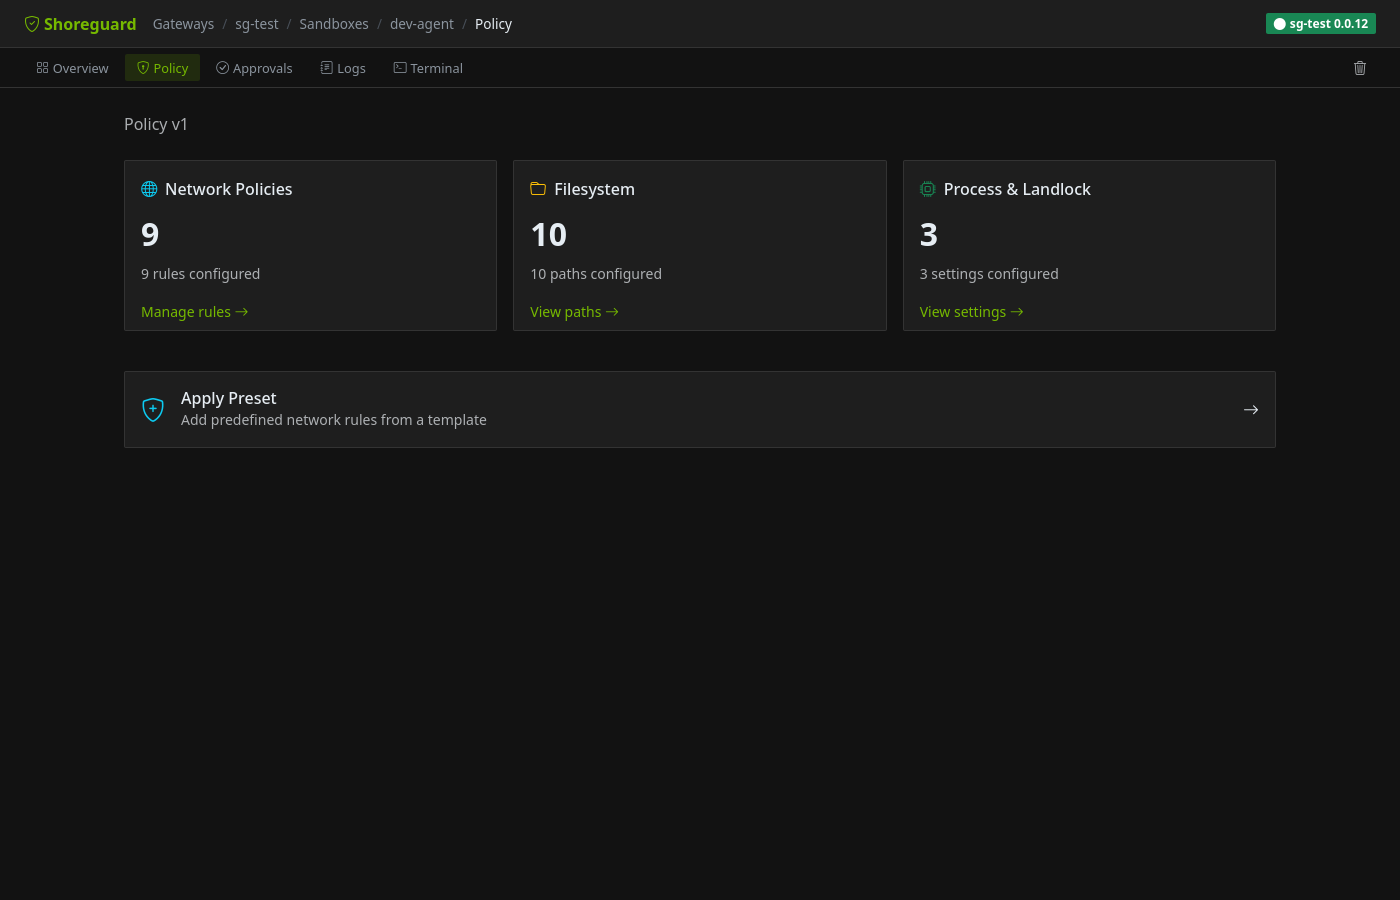
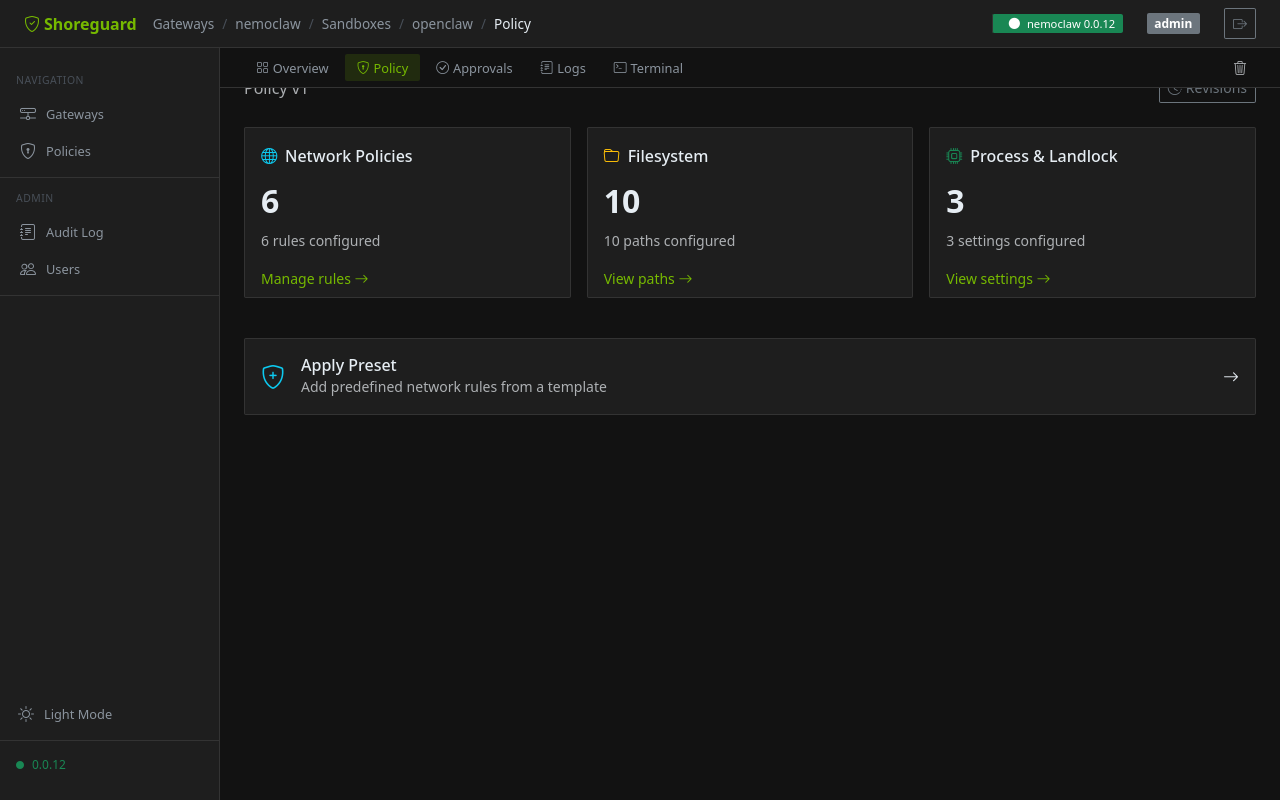
docs: update screenshots, fix stale active-gateway references, expand API reference
Refresh all 8 screenshots for v0.12.0 UI. Remove "active gateway" concept
from docs (removed in v0.10.0). Add gateway detail, audit log, and provider
sections with screenshots. Expand API reference from ~15 to ~45 endpoints.
Fix asyncpg → psycopg in all PostgreSQL examples. Update README roadmap.

diff --git a/docs/reference/api.md b/docs/reference/api.md
@@ -33,6 +33,15 @@ ShoreGuard supports two authentication methods:
 | `POST` | `/api/auth/service-principals` | Create a service principal |
 | `DELETE` | `/api/auth/service-principals` | Delete a service principal |
 
+## Health probes
+
+These endpoints are **unauthenticated** and designed for container orchestration.
+
+| Method | Path | Description |
+|--------|------|-------------|
+| `GET` | `/healthz` | Liveness probe — returns 200 if the process is running |
+| `GET` | `/readyz` | Readiness probe — checks database and service initialisation |
+
 ## Gateway management
 
 | Method | Path | Description |
@@ -40,21 +49,43 @@ ShoreGuard supports two authentication methods:
 | `GET` | `/api/gateway/list` | List all registered gateways |
 | `POST` | `/api/gateway/register` | Register a new gateway |
 | `DELETE` | `/api/gateway/{name}` | Remove a gateway |
-| `POST` | `/api/gateway/{name}/select` | Set the active gateway for the session |
+| `GET` | `/api/gateway/{name}/info` | Gateway details (status, endpoint, dates) |
+| `GET` | `/api/gateway/{name}/config` | Gateway configuration |
 | `POST` | `/api/gateway/{name}/test-connection` | Test connectivity to a gateway |
+| `POST` | `/api/gateway/{name}/start` | Start gateway (local mode only) |
+| `POST` | `/api/gateway/{name}/stop` | Stop gateway (local mode only) |
+| `POST` | `/api/gateway/{name}/restart` | Restart gateway (local mode only) |
+| `GET` | `/api/gateways/{gw}/health` | Gateway health status |
 
-## Sandboxes and policies
+## Sandboxes
 
-All sandbox endpoints are scoped to a gateway.
+All sandbox endpoints are scoped to a gateway via the `{gw}` path parameter.
 
 | Method | Path | Description |
 |--------|------|-------------|
 | `GET` | `/api/gateways/{gw}/sandboxes` | List sandboxes |
-| `POST` | `/api/gateways/{gw}/sandboxes` | Create a sandbox |
+| `POST` | `/api/gateways/{gw}/sandboxes` | Create a sandbox (returns 202 + operation ID) |
+| `GET` | `/api/gateways/{gw}/sandboxes/{name}` | Get sandbox details |
 | `DELETE` | `/api/gateways/{gw}/sandboxes/{name}` | Delete a sandbox |
 | `POST` | `/api/gateways/{gw}/sandboxes/{name}/exec` | Execute a command in a sandbox |
-| `GET` | `/api/gateways/{gw}/sandboxes/{name}/policy` | Get the sandbox policy |
-| `PUT` | `/api/gateways/{gw}/sandboxes/{name}/policy` | Update the sandbox policy |
+| `POST` | `/api/gateways/{gw}/sandboxes/{name}/ssh` | Create SSH session |
+| `DELETE` | `/api/gateways/{gw}/sandboxes/{name}/ssh` | Revoke SSH session |
+| `GET` | `/api/gateways/{gw}/sandboxes/{name}/logs` | Get sandbox logs |
+
+## Policies
+
+| Method | Path | Description |
+|--------|------|-------------|
+| `GET` | `/api/gateways/{gw}/sandboxes/{name}/policy` | Get the active sandbox policy |
+| `PUT` | `/api/gateways/{gw}/sandboxes/{name}/policy` | Update the full sandbox policy |
+| `GET` | `/api/gateways/{gw}/sandboxes/{name}/policy/revisions` | List policy revisions |
+| `GET` | `/api/gateways/{gw}/sandboxes/{name}/policy/diff` | Compare two revisions |
+| `POST` | `/api/gateways/{gw}/sandboxes/{name}/policy/network-rules` | Add a network rule |
+| `DELETE` | `/api/gateways/{gw}/sandboxes/{name}/policy/network-rules/{key}` | Delete a network rule |
+| `POST` | `/api/gateways/{gw}/sandboxes/{name}/policy/filesystem` | Add a filesystem path |
+| `DELETE` | `/api/gateways/{gw}/sandboxes/{name}/policy/filesystem` | Delete a filesystem path |
+| `PUT` | `/api/gateways/{gw}/sandboxes/{name}/policy/process` | Update process/Landlock settings |
+| `POST` | `/api/gateways/{gw}/sandboxes/{name}/policy/presets/{preset}` | Apply a preset |
 
 ## Approvals
 
@@ -63,11 +94,37 @@ All sandbox endpoints are scoped to a gateway.
 | `GET` | `/api/gateways/{gw}/approvals/pending` | List pending approval requests |
 | `POST` | `/api/gateways/{gw}/approvals/{chunk_id}/approve` | Approve a pending request |
 
+## Providers
+
+| Method | Path | Description |
+|--------|------|-------------|
+| `GET` | `/api/gateways/{gw}/providers` | List providers |
+| `POST` | `/api/gateways/{gw}/providers` | Create a provider |
+| `GET` | `/api/gateways/{gw}/providers/{name}` | Get provider details |
+| `PUT` | `/api/gateways/{gw}/providers/{name}` | Update a provider |
+| `DELETE` | `/api/gateways/{gw}/providers/{name}` | Delete a provider |
+| `GET` | `/api/gateways/{gw}/providers/types` | List known provider types |
+
+## Inference
+
+| Method | Path | Description |
+|--------|------|-------------|
+| `GET` | `/api/gateways/{gw}/inference` | Get cluster inference configuration |
+| `PUT` | `/api/gateways/{gw}/inference` | Set inference config (provider, model, timeout) |
+
 ## Policy presets
 
 | Method | Path | Description |
 |--------|------|-------------|
 | `GET` | `/api/policies/presets` | List available policy presets |
+| `GET` | `/api/policies/presets/{name}` | Get preset details |
+
+## Audit
+
+| Method | Path | Description |
+|--------|------|-------------|
+| `GET` | `/api/audit` | Query audit log (filter by actor, resource, action) |
+| `GET` | `/api/audit/export` | Export audit log as CSV or JSON |
 
 ## Operations
 

diff --git a/README.md b/README.md
@@ -66,11 +66,13 @@ Open [http://localhost:8888](http://localhost:8888) and complete the setup wizar
 
 ## Features
 
-- **[Gateway management](https://flohofstetter.github.io/shoreguard/guide/gateways/)** — register and monitor multiple remote OpenShell gateways
+- **[Gateway management](https://flohofstetter.github.io/shoreguard/guide/gateways/)** — register and monitor multiple remote OpenShell gateways with health probing
 - **[Sandbox wizard](https://flohofstetter.github.io/shoreguard/guide/sandboxes/)** — step-by-step creation with agent types, images, and presets
 - **[Visual policy editor](https://flohofstetter.github.io/shoreguard/guide/policies/)** — network rules, filesystem paths, process settings — no YAML
 - **[Approval flow](https://flohofstetter.github.io/shoreguard/guide/approvals/)** — review agent-requested endpoint access in real-time
-- **[RBAC](https://flohofstetter.github.io/shoreguard/admin/rbac/)** — Admin, Operator, Viewer roles with invite flow
+- **[RBAC](https://flohofstetter.github.io/shoreguard/admin/rbac/)** — Admin, Operator, Viewer roles with gateway-scoped overrides
+- **[Docker deployment](https://flohofstetter.github.io/shoreguard/admin/deployment/)** — Dockerfile + docker-compose with PostgreSQL and health probes
+- **[Audit log](https://flohofstetter.github.io/shoreguard/guide/monitoring/)** — persistent, filterable, exportable audit trail
 - **[Terraform provider](https://flohofstetter.github.io/shoreguard/reference/terraform/)** — declarative infrastructure-as-code
 
 ## Documentation
@@ -89,22 +91,21 @@ Full documentation is available at **[flohofstetter.github.io/shoreguard](https:
 **Completed:**
 
 - [x] Multi-gateway management with health monitoring
-- [x] RBAC — Admin, Operator, Viewer roles
+- [x] RBAC — Admin, Operator, Viewer roles with gateway-scoped overrides
 - [x] Sandbox wizard with community images and presets
-- [x] Visual policy editor with revision history
+- [x] Visual policy editor with revision history and diff viewer
 - [x] Approval flow with real-time notifications
 - [x] Terraform provider ([separate repo](https://github.com/FloHofstetter/terraform-provider-shoreguard))
-- [x] Alpine.js reactive frontend
+- [x] Alpine.js reactive frontend with dark/light theme
 - [x] Persistent audit log with export
+- [x] Docker image + docker-compose with PostgreSQL
+- [x] Health probes (`/healthz`, `/readyz`)
+- [x] Stateless gateway routing (URL-based, no server-side selection)
+- [x] Inference timeout configuration (OpenShell v0.0.22)
+- [x] L7 query parameter matchers for network policies
 
-**In Progress:**
+**Planned:**
 
-- [ ] Policy diff viewer
-- [ ] Gateway-scoped RBAC for team isolation
-
-**Vision:**
-
-- [ ] Docker image and demo mode
 - [ ] DigitalOcean Marketplace integration
 - [ ] Paperclip adapter for agent orchestration
 - [ ] Multi-region gateway federation

diff --git a/docs/guide/gateways.md b/docs/guide/gateways.md
@@ -13,7 +13,7 @@ need and manage them all from the ShoreGuard dashboard.
 
 ### Via the Web UI
 
-Open the **Gateways** page and click **Add Gateway**. Fill in the gateway name,
+Open the **Gateways** page and click **+ Register**. Fill in the gateway name,
 endpoint URL, authentication mode, and — if using mTLS — upload the
 certificates.
 
@@ -56,8 +56,22 @@ You can trigger an explicit connection test at any time:
 
 The test performs a full gRPC health check and reports the result immediately.
 
-## Selecting the active gateway
+## Gateway detail
 
-The dashboard operates against one gateway at a time. Use the gateway selector
-in the top navigation bar to switch between registered gateways. Sandboxes,
-policies, and logs update automatically when you change the selection.
+Each gateway has a dedicated detail page at `/gateways/{name}` showing status,
+connection info, and management controls.
+
+![Gateway Detail](../screenshots/gateway-detail.png)
+
+### Start, Stop, and Restart
+
+When running in [local mode](../admin/local-mode.md), the gateway detail page
+shows **Stop**, **Restart**, and **Test Connection** buttons to manage the
+Docker-based gateway lifecycle directly from the browser.
+
+### Inference provider
+
+The **Inference Provider** card lets you configure which LLM provider and model
+the gateway uses for agent inference. You can also set a per-route **timeout**
+in seconds (0 uses the default of 60s) — useful for large models with long
+response times.

diff --git a/docs/admin/deployment.md b/docs/admin/deployment.md
@@ -15,6 +15,27 @@ This is convenient for development but should not be used in production.
 > Always use `--no-reload` in production to avoid unnecessary restarts and
 > file-watching overhead.
 
+## Docker
+
+ShoreGuard ships with a `Dockerfile` and `docker-compose.yml` for production
+deployments with PostgreSQL:
+
+```bash
+POSTGRES_PASSWORD=changeme SHOREGUARD_SECRET_KEY=changeme docker compose up -d
+```
+
+This starts two containers: ShoreGuard (port 8888) and PostgreSQL 17. Set
+`SHOREGUARD_ADMIN_PASSWORD` to bootstrap the first admin account without the
+setup wizard.
+
+Health probes for container orchestration:
+
+- `GET /healthz` — liveness (process running)
+- `GET /readyz` — readiness (database reachable, services initialised)
+
+See the [Configuration](../reference/configuration.md) page for all
+environment variables.
+
 ## Production flags
 
 ```bash
@@ -36,7 +57,7 @@ on first run. No setup required — this works well for single-node deployments.
 For multi-instance or high-availability setups, point ShoreGuard at PostgreSQL:
 
 ```bash
-export SHOREGUARD_DATABASE_URL="postgresql+asyncpg://user:pass@db-host:5432/shoreguard"
+export SHOREGUARD_DATABASE_URL="postgresql+psycopg://user:pass@db-host:5432/shoreguard"
 shoreguard --no-reload
 ```
 

diff --git a/docs/guide/monitoring.md b/docs/guide/monitoring.md
@@ -35,6 +35,22 @@ In addition to application logs, ShoreGuard surfaces platform events such as:
 - Sandbox state transitions (creating, running, stopped, error)
 - Approval flow activity
 
+## Audit log
+
+ShoreGuard maintains a persistent audit log of all state-changing operations.
+Every sandbox creation, policy update, gateway action, and user management
+event is recorded with the actor, role, resource, and client IP.
+
+![Audit Log](../screenshots/audit-log.png)
+
+The **Audit Log** page (under Admin) lets you filter by actor, resource type,
+and action. You can export the full log as **CSV** or **JSON** for external
+analysis.
+
+```http
+GET /api/audit?resource=gateway&action=gateway.start&limit=50
+```
+
 ## REST API
 
 Fetch logs for a specific sandbox:

diff --git a/docs/index.md b/docs/index.md
@@ -5,7 +5,7 @@
 [![PyPI](https://img.shields.io/pypi/v/shoreguard?color=%2376b900&style=flat-square)](https://pypi.org/project/shoreguard/)
 [![License](https://img.shields.io/badge/license-Apache%202.0-blue?style=flat-square)](https://github.com/FloHofstetter/shoreguard/blob/main/LICENSE)
 [![Python](https://img.shields.io/pypi/pyversions/shoreguard?style=flat-square)](https://pypi.org/project/shoreguard/)
-[![Tests](https://img.shields.io/badge/tests-710%20passed-brightgreen?style=flat-square)](https://github.com/FloHofstetter/shoreguard)
+[![Tests](https://img.shields.io/badge/tests-759%20passed-brightgreen?style=flat-square)](https://github.com/FloHofstetter/shoreguard)
 
 ![Sandbox Overview](screenshots/sandbox-overview.png)
 

diff --git a/docs/guide/sandboxes.md b/docs/guide/sandboxes.md
@@ -33,6 +33,28 @@ Content-Type: application/json
 }
 ```
 
+## Providers
+
+Providers supply credentials for external services that sandboxes need —
+inference APIs (Anthropic, OpenAI), code hosting (GitHub), and more. Manage
+them from the **Providers** page under each gateway.
+
+![Providers](../screenshots/providers.png)
+
+Each provider has a type, credentials (stored securely on the gateway and
+redacted in API responses), and optional configuration like custom endpoints.
+
+```http
+POST /api/gateways/{gw}/providers
+Content-Type: application/json
+
+{
+  "name": "anthropic",
+  "type": "anthropic",
+  "api_key": "sk-ant-..."
+}
+```
+
 ## Sandbox lifecycle
 
 A sandbox moves through these states:

diff --git a/docs/guide/overview.md b/docs/guide/overview.md
@@ -11,7 +11,7 @@ area so you can get the most out of your deployment.
 ### [Gateways](gateways.md)
 
 Register and monitor multiple OpenShell gateways from a single dashboard.
-Health probing, connection testing, and multi-gateway selection are all
+Health probing, connection testing, and gateway lifecycle management are all
 built in.
 
 ### [Sandboxes](sandboxes.md)

diff --git a/docs/getting-started/installation.md b/docs/getting-started/installation.md
@@ -49,7 +49,7 @@ SQLite works well for single-node deployments. If you need a shared database
 with the `SHOREGUARD_DATABASE_URL` environment variable:
 
 ```bash
-export SHOREGUARD_DATABASE_URL="postgresql+asyncpg://user:pass@db-host:5432/shoreguard"
+export SHOREGUARD_DATABASE_URL="postgresql+psycopg://user:pass@db-host:5432/shoreguard"
 shoreguard
 ```
 

diff --git a/docs/reference/configuration.md b/docs/reference/configuration.md
@@ -43,7 +43,7 @@ For multi-replica or production deployments, pass a PostgreSQL connection
 string:
 
 ```bash
-export SHOREGUARD_DATABASE_URL="postgresql+asyncpg://user:pass@db-host:5432/shoreguard"
+export SHOREGUARD_DATABASE_URL="postgresql+psycopg://user:pass@db-host:5432/shoreguard"
 shoreguard
 ```
 
